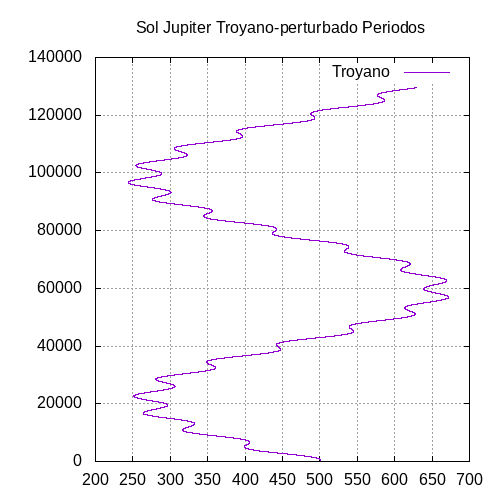
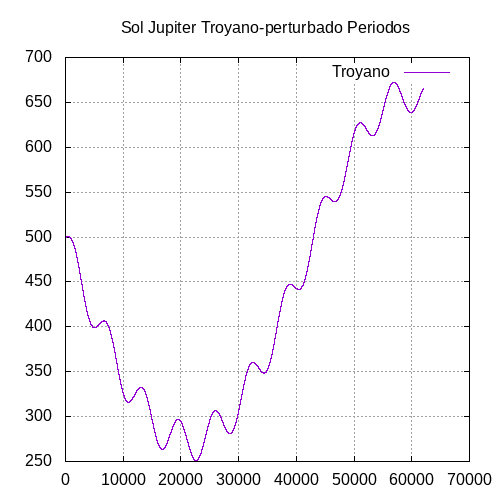
Actualizacion punto 3

diff --git a/Taller1/Problema3/Sistema_Sol_Jupiter_Rotado.cpp b/Taller1/Problema3/Sistema_Sol_Jupiter_Rotado.cpp
@@ -44,7 +44,7 @@ int main(){
   outfile.open("S-J_rotated_axis.dat");
   Planeta[0].Inicie(x1,0,0,0,V1,0,m1,97.3);
   Planeta[1].Inicie(x2,0,0,0,V2,0,m2,10.0);
-  
+
   //InicieAnimacion();
   for(t=0,tdibujo=0; t<tmax; t+=dt, tdibujo+=dt){
 
@@ -53,18 +53,18 @@ int main(){
 
     double xrotado_1= Planeta[1].Getx()*cos(omega*t)+Planeta[1].Gety()*sin(omega*t);
     double yrotado_1=-Planeta[1].Getx()*sin(omega*t)+Planeta[1].Gety()*cos(omega*t);
-    
+
     outfile<<xrotado_0<<" "<<yrotado_0<<" "
 	   <<xrotado_1<<" "<<yrotado_1<<"\n";
     // Haga el movimiento y los calculos por PEFRL
-    for(i=0;i<N;i++) Planeta[i].Mueva_r(dt, Zeta);            // 1 
+    for(i=0;i<N;i++) Planeta[i].Mueva_r(dt, Zeta);            // 1
     Newton.CalculeFuerza(Planeta,N,G);
     for(i=0;i<N;i++) Planeta[i].Mueva_v(dt,Coeficiente1);     // 2
     for(i=0;i<N;i++) Planeta[i].Mueva_r(dt, Chi);             // 3
-    Newton.CalculeFuerza(Planeta,N,G);     
+    Newton.CalculeFuerza(Planeta,N,G);
     for(i=0;i<N;i++) Planeta[i].Mueva_v(dt,Lambda);           // 4
     for(i=0;i<N;i++) Planeta[i].Mueva_r(dt,Coeficiente2);     // 5
-    Newton.CalculeFuerza(Planeta,N,G);     
+    Newton.CalculeFuerza(Planeta,N,G);
     for(i=0;i<N;i++) Planeta[i].Mueva_v(dt,Lambda);           // 4
     for(i=0;i<N;i++) Planeta[i].Mueva_r(dt, Chi);             // 3
     Newton.CalculeFuerza(Planeta,N,G);

diff --git a/Taller1/Problema3/Sistema_Sol_Jupiter_Perturbado_Troyano_Periodos.cpp b/Taller1/Problema3/Sistema_Sol_Jupiter_Perturbado_Troyano_Periodos.cpp
@@ -64,7 +64,7 @@ int main(){
     double xrotado_2= Planeta[2].Getx()*cos(omega*t)+Planeta[2].Gety()*sin(omega*t);
     double yrotado_2=-Planeta[2].Getx()*sin(omega*t)+Planeta[2].Gety()*cos(omega*t);
 
-    outfile<<xrotado_2<<" "<<t<<std::endl;
+    outfile<<t<<" "<<xrotado_2<<std::endl;
 
     // Haga el movimiento y los calculos por PEFRL
     for(i=0;i<N;i++) Planeta[i].Mueva_r(dt, Zeta);            // 1

diff --git a/Taller1/Problema3/Sistema_Sol_Jupiter_Perturbado_Troyano.cpp b/Taller1/Problema3/Sistema_Sol_Jupiter_Perturbado_Troyano.cpp
@@ -72,7 +72,7 @@ int main(){
     outfile<<xrotado_0<<" "<<yrotado_0<<" "
 	   <<xrotado_1<<" "<<yrotado_1<<" "
 	   <<xrotado_2<<" "<<yrotado_2<<std::endl;
-     
+
     // Haga el movimiento y los calculos por PEFRL
     for(i=0;i<N;i++) Planeta[i].Mueva_r(dt, Zeta);            // 1
     Newton.CalculeFuerza(Planeta,N,G);
